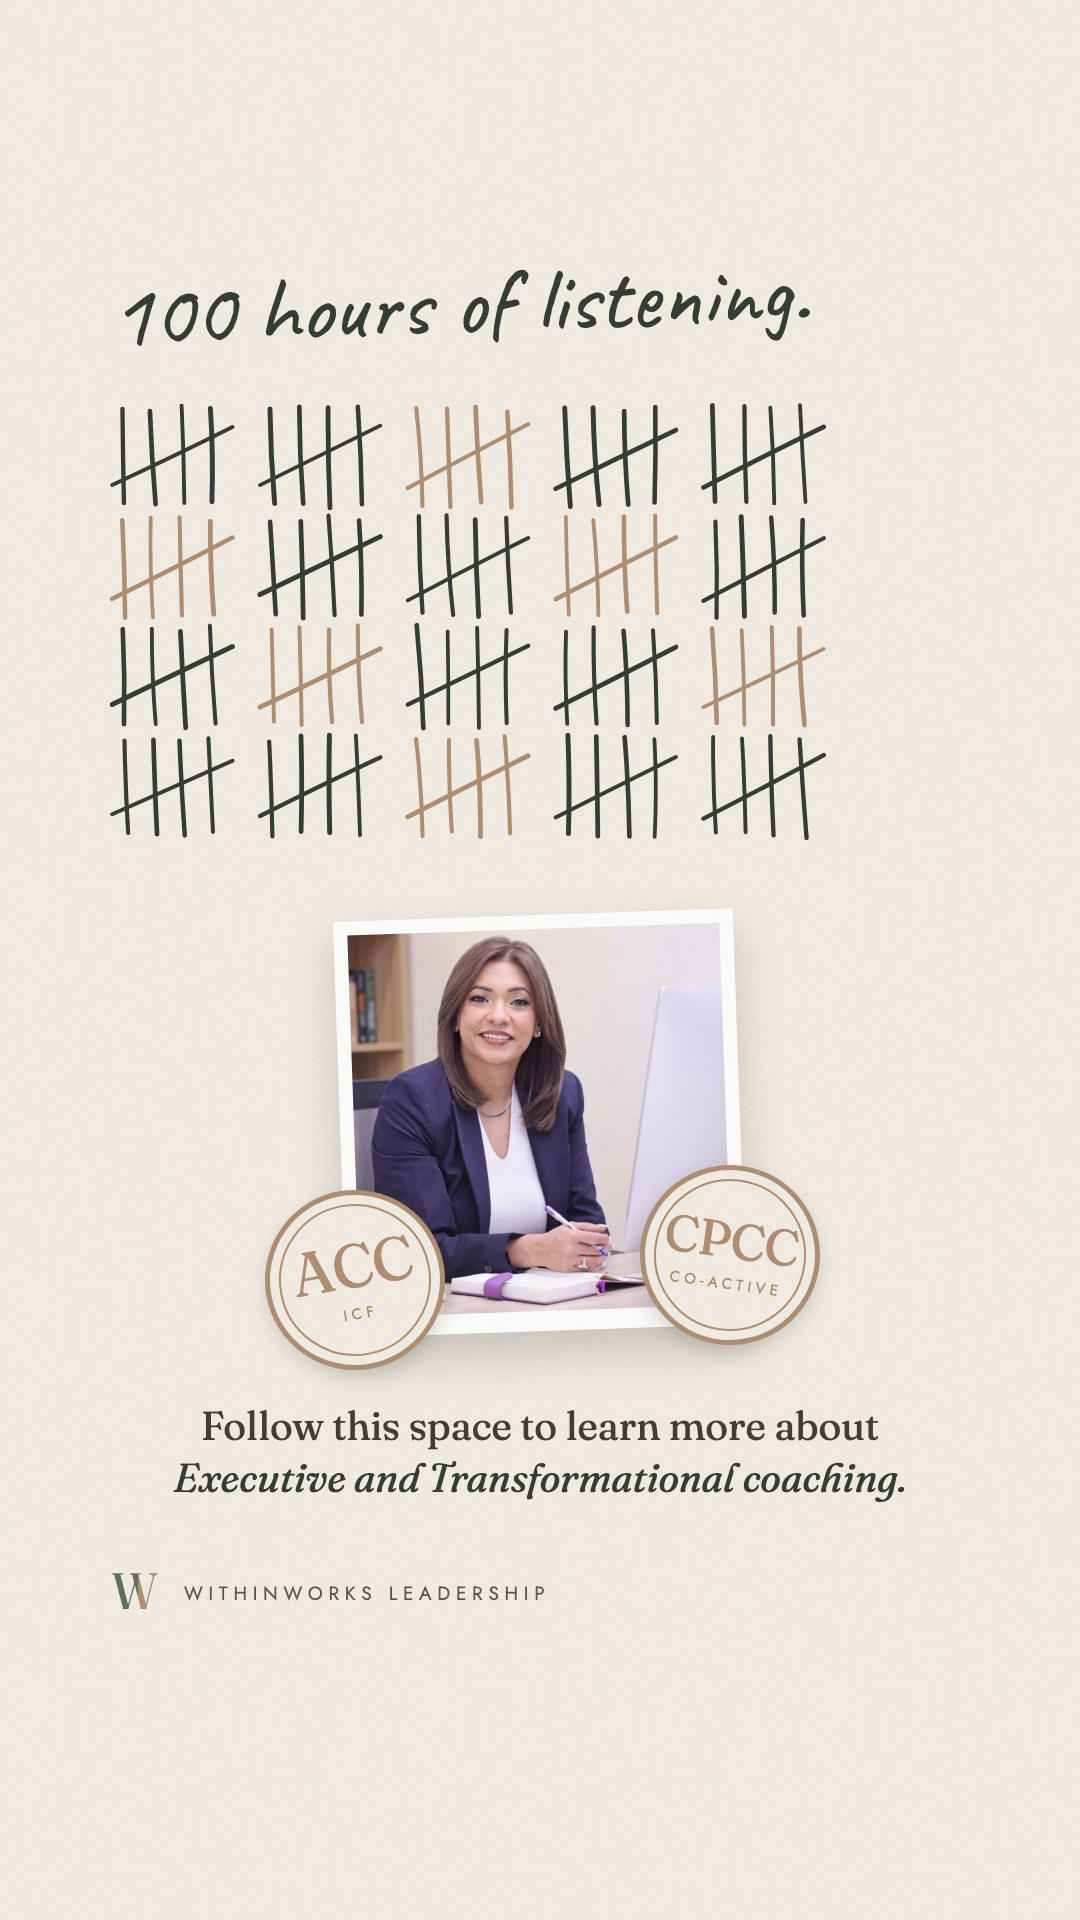
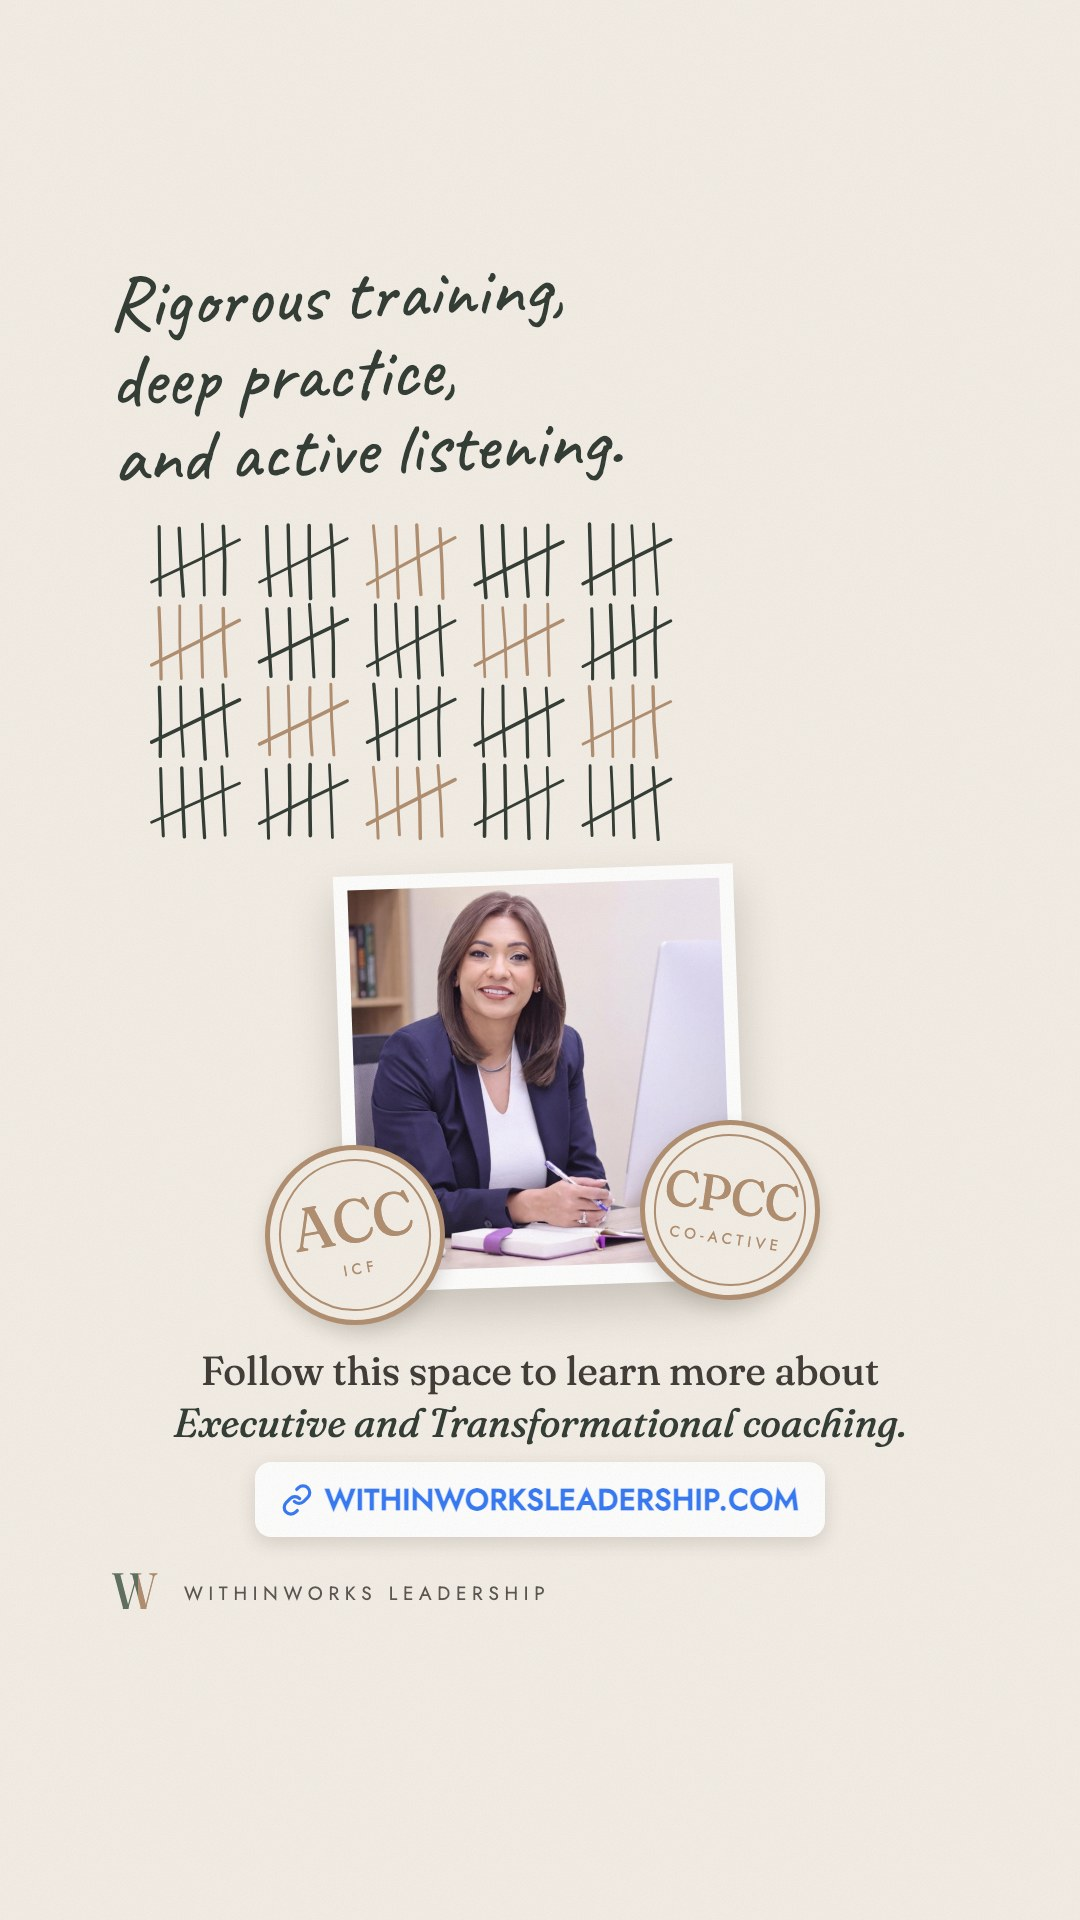
Story: Megha's headline, website link sticker

Changed region(s): [[0.0917, 0.125, 0.825, 0.8125], [0.6417, 0.2188, 0.7639, 0.4375]]

diff --git a/stories/index.html b/stories/index.html
@@ -20,10 +20,10 @@
 <a class="brand" href="../"><svg class="mark"><use href="#ww"/></svg><span><b>WithinWorks</b><small>The Brain</small></span></a><a class="crumb" href="../">&larr; Brain</a>
 </div></header>
 <section class="page-hero"><div class="shell"><p class="eyebrow">Stories</p><h1>Instagram <em>stories</em></h1><p class="lede">Full screen, 24 hours, no caption. Approve or comment under each one.</p></div></section><section><div class="shell"><div class="feed-wide"><div class="feed story-feed"><article class="post-wrap story-wrap" id="s1-1">
-<p class="eyebrow" style="margin-bottom:10px">S1 &middot; Credentials</p>
+<p class="eyebrow" style="margin-bottom:10px">S1 &middot; Credentials<span class="rev">Revised 4 Nov</span></p>
 <div class="story"><div class="story-bars"><i></i></div>
   <div class="story-head"><img src="../assets/megha.jpg" alt=""><b>megha.withinworks</b><small>2h</small></div>
-  <div class="story-track"><img src="../posts/s1-1.jpg?v=1793798583" alt="" loading="lazy" width="1080" height="1920"></div>
+  <div class="story-track"><img src="../posts/s1-1.jpg?v=1793812639" alt="" loading="lazy" width="1080" height="1920"></div>
   <div class="story-foot"><span>Send message</span><svg viewBox="0 0 24 24" class=""><path d="M12 21s-7.5-4.6-9.3-9.2C1.4 8.4 3.6 5 7 5c2 0 3.4 1.1 5 3 1.6-1.9 3-3 5-3 3.4 0 5.6 3.4 4.3 6.8C19.5 16.4 12 21 12 21z"/></svg><svg viewBox="0 0 24 24" class=""><path d="M22 3 9.2 10.1M22 3l-7 18-3.8-8.6L2 9.5 22 3z"/></svg></div>
 </div>
 <div class="review post" data-id="s1-1" data-title="Credentials (story)" style="background:none;border:0;padding:14px 0 0"></div>
